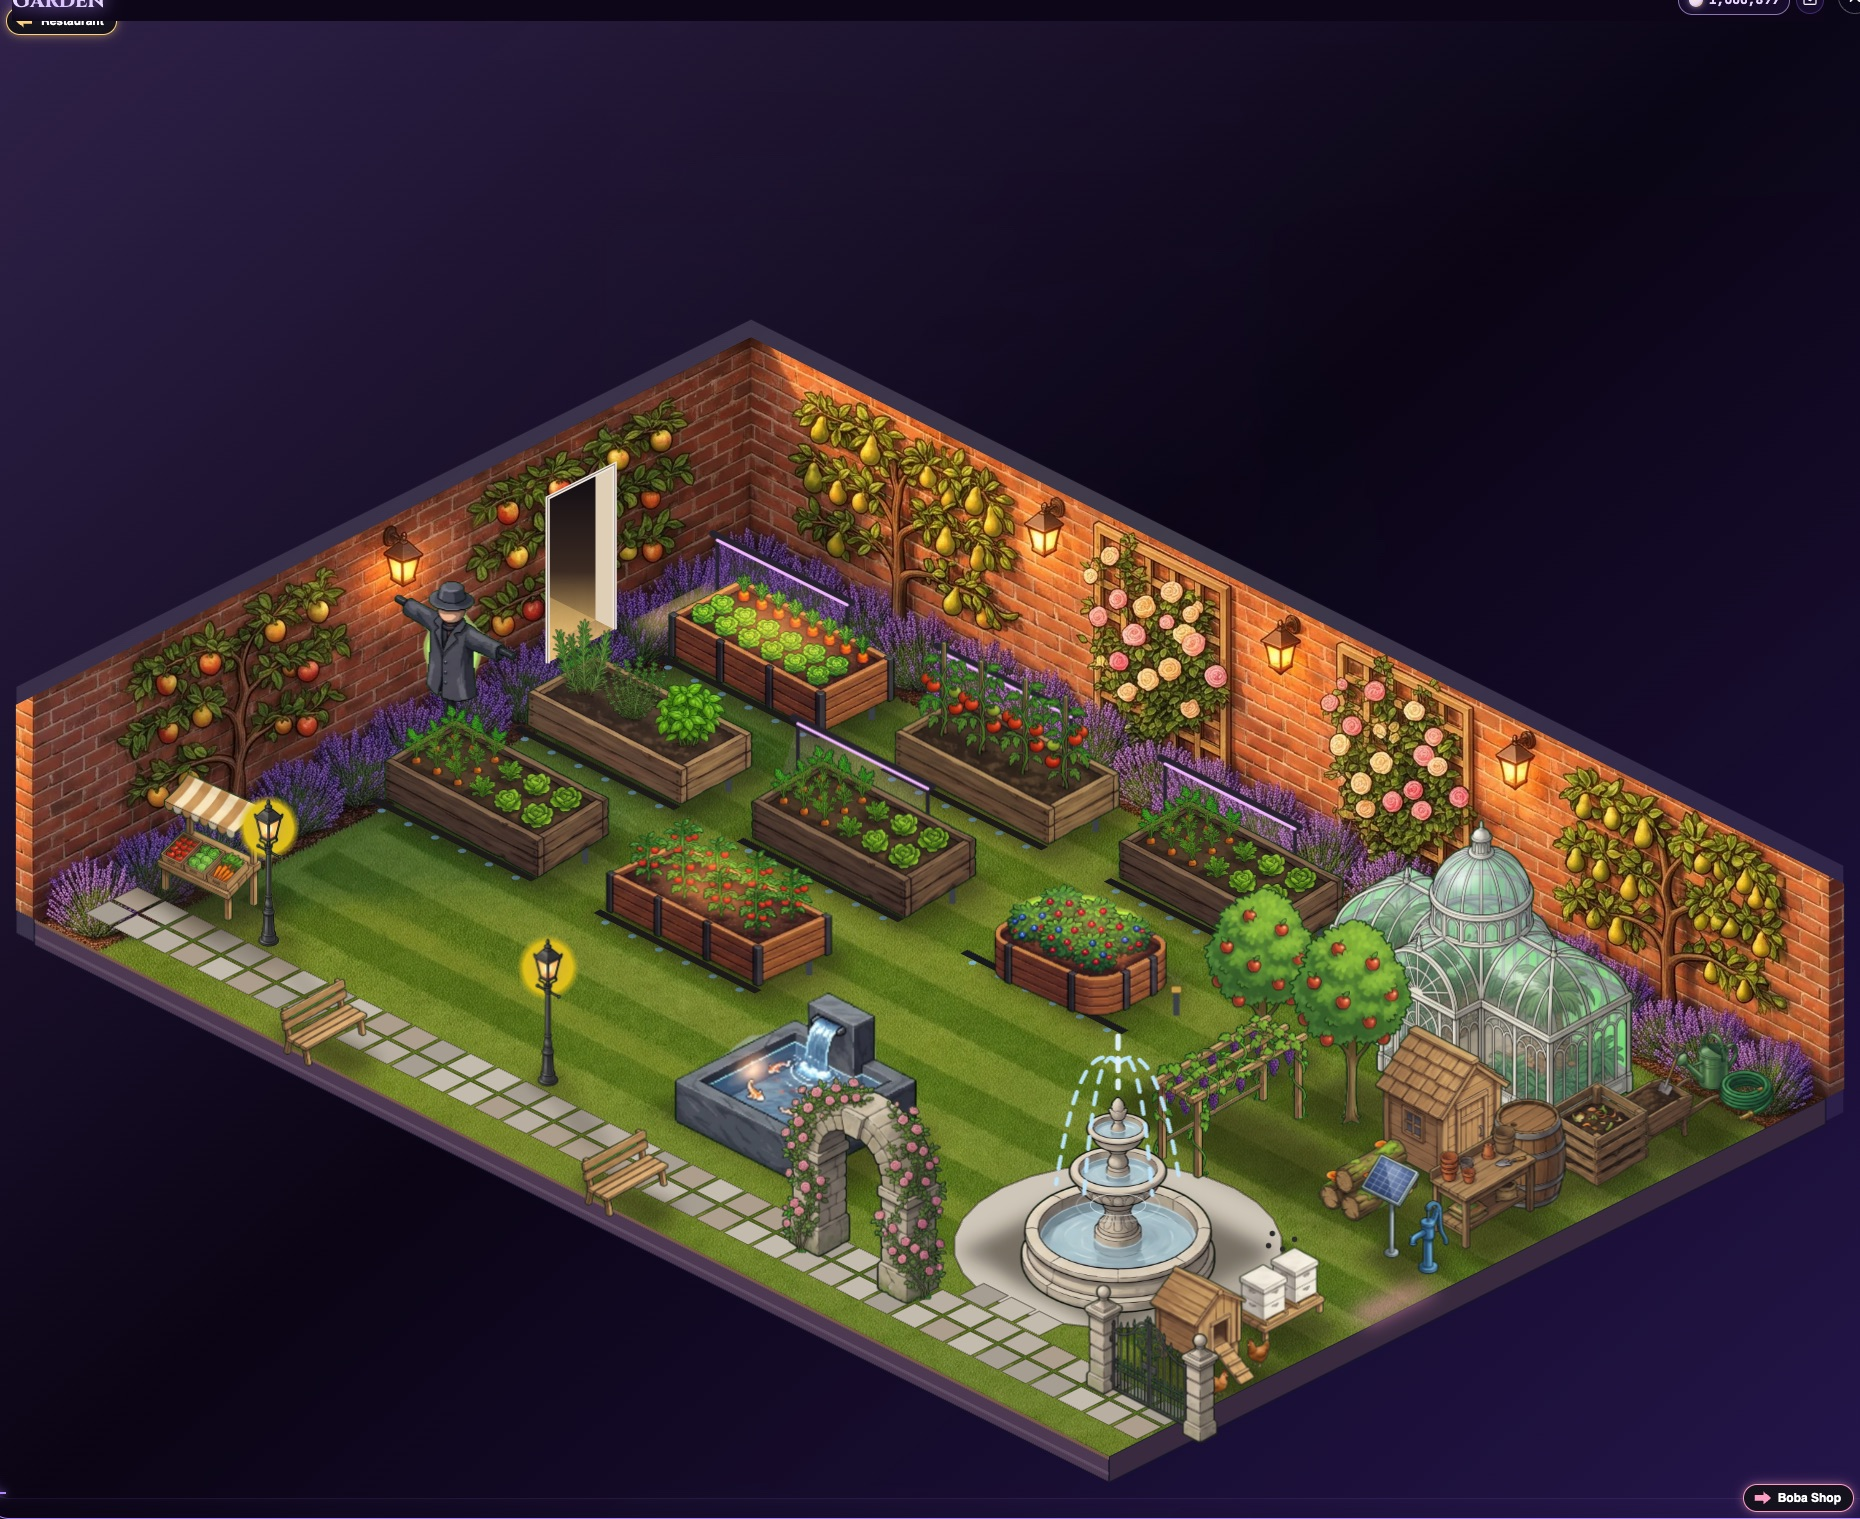
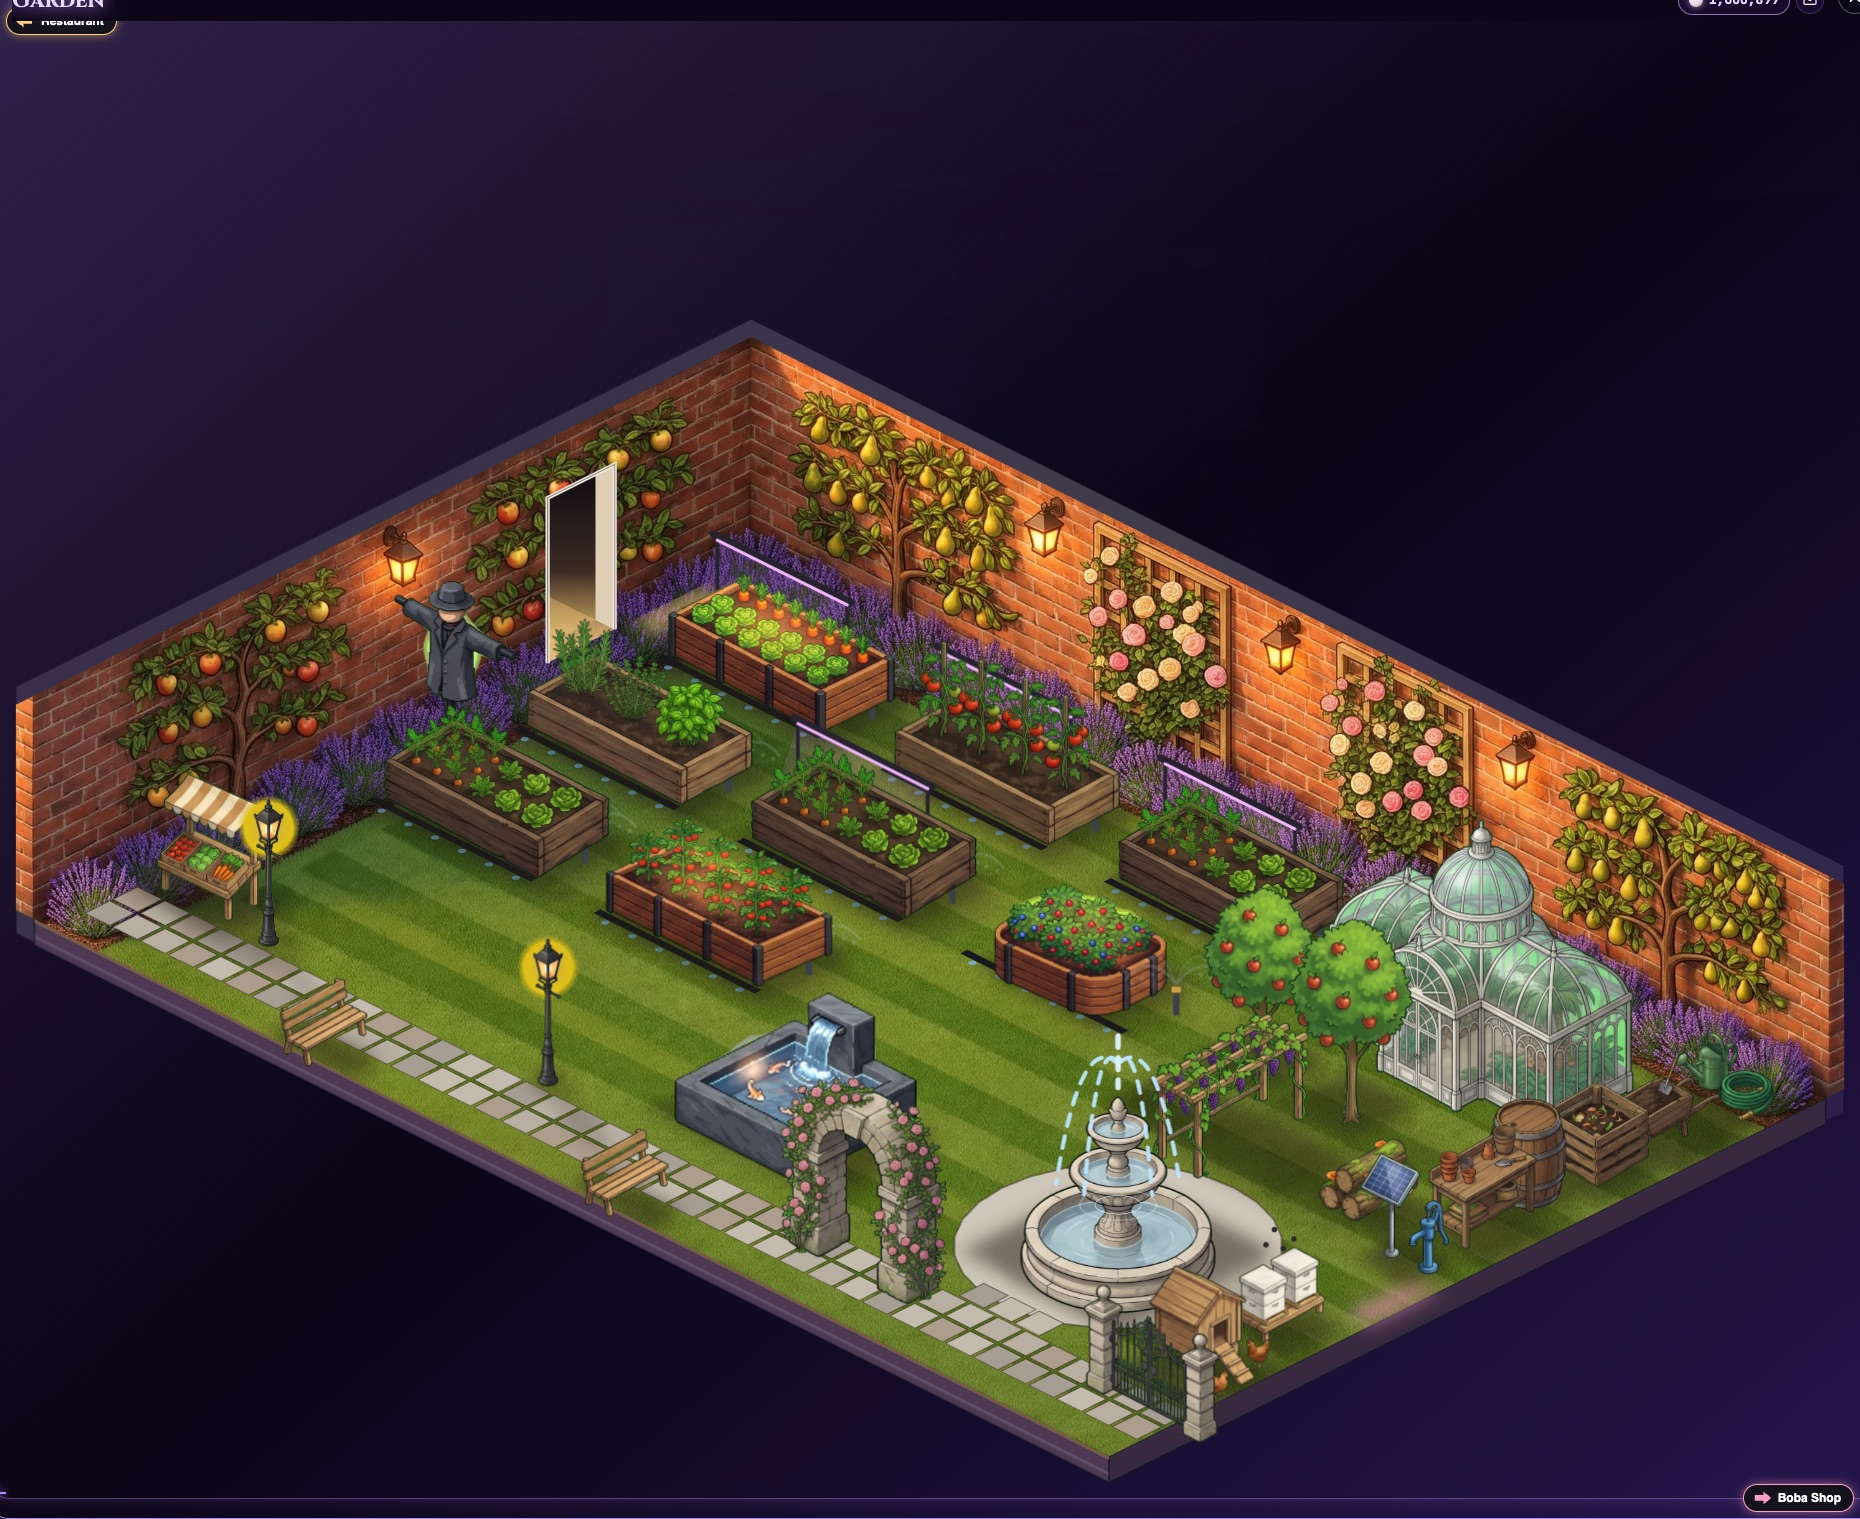
QA: ROOMS's last sweep batch (f65b082, 6b69666, 8a99e00) PASS; Bowling seats for Cal; loop off for the night

Changed region(s): [[0.7172, 0.6807, 0.8108, 0.7735], [0.5925, 0.7735, 0.6237, 0.8045]]

diff --git a/quest-board/docs/TASKS.md b/quest-board/docs/TASKS.md
@@ -62,7 +62,7 @@ LEAD Doing:
 
 ROOMS Doing:
 - TAKEN by ROOMS: QA's room-placement sweep for Cal (9204eb5, rigtest/qa/review_rooms_1114.md): chandeliers, floating pieces, wrong-wall pieces, off-floor, blocked doors, clipping, realism, crowding, guest spots. Fixing room by room, worst first; each fix goes to QA as WAITING ON QA.
-- (QA: DONE on 96f45cb, PASS except two, QA findings) (QA: DONE on 152e874, both fixed; one new FIX, the Bedroom drawn smaller; QA findings) (QA: DONE on 25a23a9, PASS; QA findings) (QA: DONE on fdecc73, PASS; QA findings) WAITING ON QA: room sweep fixes so far, by eye at 1860 px fully bought, default style, 13:00 (bigrooms.js) and auditall.js: 16a9ebf (Restaurant chandeliers over tables on cords, two in the full room; Theater lobby chandeliers up on cords, one moved off the kiosk; Patio light strings tied to corner posts), 0809117 (Boba cooker on a steel stand; Closet Lair rod painted out; Rhythm mirror/equalizer flips and bench inside; VR globe flip and flight pod inside; Game Room hex panels drawn on the left wall plane), 96f45cb (Theater standee off the entrance; Patio telescope and bar cart clear). (QA: DONE on 96f45cb, PASS but FIX 1 Theater second chandelier, FIX 2 Patio cust spot.) (QA: DONE on 152e874, PASS but one FIX, the Bedroom drawn 20% smaller.) (QA: DONE on 25a23a9, PASS.) WAITING ON QA: fdecc73 (Rooftop DJ booth off the pool; Speakeasy booth off the piano; Garden grow lamp off the doorway). Not checked: other styles, earlier stages, night. Still to do: Dessert sundae (art edit), Bedroom desk/door, Garden door/bed and lamp/pond, Mall escalator, Rooftop DJ/pool, Speakeasy booth/piano and back bar, Bowling, Karaoke, Auditorium, Lair pieces, crowding, guest spots.
+- (QA: DONE on 96f45cb, PASS except two, QA findings) (QA: DONE on 152e874, both fixed; one new FIX, the Bedroom drawn smaller; QA findings) (QA: DONE on 25a23a9, PASS; QA findings) (QA: DONE on fdecc73, PASS; QA findings) (QA: DONE on 8a99e00, PASS, Bowling seats for Cal to judge; QA findings) WAITING ON QA: room sweep fixes so far, by eye at 1860 px fully bought, default style, 13:00 (bigrooms.js) and auditall.js: 16a9ebf (Restaurant chandeliers over tables on cords, two in the full room; Theater lobby chandeliers up on cords, one moved off the kiosk; Patio light strings tied to corner posts), 0809117 (Boba cooker on a steel stand; Closet Lair rod painted out; Rhythm mirror/equalizer flips and bench inside; VR globe flip and flight pod inside; Game Room hex panels drawn on the left wall plane), 96f45cb (Theater standee off the entrance; Patio telescope and bar cart clear). (QA: DONE on 96f45cb, PASS but FIX 1 Theater second chandelier, FIX 2 Patio cust spot.) (QA: DONE on 152e874, PASS but one FIX, the Bedroom drawn 20% smaller.) (QA: DONE on 25a23a9, PASS.) (QA: DONE on fdecc73, PASS.) WAITING ON QA: f65b082 (Bowling seats alongside the lanes facing them, ball return and console at the lane ends; Auditorium EXIT out from behind the speaker), 6b69666 (Restaurant: one front table instead of two with the crescent booth; counter stools .07 closer, no seats on air), 8a99e00 (Tool Shed superseded by the Glass Conservatory in the full garden). Art still open (needs Higgsfield): Dessert sundae inside the Bingsu art, a painted Speakeasy back bar, a back-view Karaoke booth, the Lair's outlined pieces; the Auditorium projector aim waits on Cal's OK of the projector back views. Not checked: other styles, earlier stages, night. Still to do: Dessert sundae (art edit), Bedroom desk/door, Garden door/bed and lamp/pond, Mall escalator, Rooftop DJ/pool, Speakeasy booth/piano and back bar, Bowling, Karaoke, Auditorium, Lair pieces, crowding, guest spots.
 - (QA: DONE on 9f6c17c, PASS, QA findings) WAITING ON QA: check b416f33, QA's old note (Mara's chef hat covered her eyes): npc_hat is lifted (m 175, f 115) with no hair trim. ROOMS checked Mara in all 34 poses (with LEAD's six animations) and the hat on h1, h2, h3 for both bodies: eyes clear, no scalp gap. Every NPC chef wears it, so a look at the Restaurant's cooks too.
 - (DONE by LEAD in a995106.) READY for LEAD (Cal approved Kenan, e7e6b70): in 29k_friends.js set kenan's spec to body m, skin s2, hairStyle "fr_kenan_hair", hairColor black, top tee white, shoe sneakers black, eq ["fr_kenan_jacket","fr_kenan_pants"] (drop h_shades, h_tech, h_boots: no sunglasses now). fr_kenan_hair is not in hairStyles on purpose, like Victor's.
 - (QA: DONE on 5d726d6, PASS; QA findings) WAITING ON QA: check e7e6b70 with LEAD's wiring a995106 (LEAD wear-tested the spec on the rig in all 22 poses): Kenan's visit card portraits (three) and his look in rooms (wear-tested in 22 poses by ROOMS; the stretch has no yawn picture now and falls back).
@@ -95,9 +95,17 @@ Requests for ROOMS (Cal, 2026-11-13; approvals go to Cal first):
   26_world.js already does. That way Sable, Rafe and Nova no longer look alike: TEAM.look gives all three the same y_bucket hat.
 
 QA Doing:
-- Now (on fdecc73): ROOMS's room-sweep fixes through fdecc73 PASS (nothing open from QA). More ROOMS fixes coming tonight; loop stays on until ROOMS is done (ROOMS asked). v1.02 live as 10daa03.
+- Now (on 8a99e00): Cal's room sweep: every code fix from ROOMS checked and PASS (last batch f65b082, 6b69666, 8a99e00); what is left needs art from Cal's Chrome. Nothing open from QA; 15-minute loop stopped for the night (Cal: stop once nobody has work). v1.02 live as 10daa03.
 
 QA findings (Mac team; one line each: what, where, how to see it, pictures, owner):
+- PASS, ROOMS f65b082 + 6b69666 + 8a99e00 (the sweep's last code batch; clean plain build of 8a99e00; bigrooms.js and auditall.js on
+  bowling, auditorium, restaurant, garden; `shots/qa/rooms1115/`): Restaurant, no seats on air in auditall any more, the dining floor
+  down to 7 tables with room between them; Auditorium EXIT sign in view beside the rear speaker; Garden front-right corner thinner (the
+  shed gone once the conservatory stands); Bowling score console and ball return up at the lane ends. For Cal to judge: the Bowling
+  seat row now stands beside the left lane's foot, backs to us, facing the lane side like spectator seating; a real alley has the
+  seats behind the approach facing the pins, which needs back-view seat art. Left for art from Cal's Chrome (ROOMS's list): the
+  Dessert sundae, a painted Speakeasy back bar, a back-view Karaoke booth, the Lair's outlined pieces; the Auditorium projector's aim
+  waits on Cal's OK of the projector back views. Owner: ROOMS (art), Cal (Bowling seats, projector).
 - PASS, ROOMS fdecc73 (clean plain build; bigrooms.js and auditall.js on rooftop, speakeasy, garden; `shots/qa/rooms1115/`): Rooftop DJ
   booth between the planters, clear of the pool corner and ladder; Speakeasy corner booth clear of the piano with a gap; Garden, no
   grow-lamp bar across the doorway. auditall: only the old pool float, the stage band and the cart-over-stage depth. Still with ROOMS:
